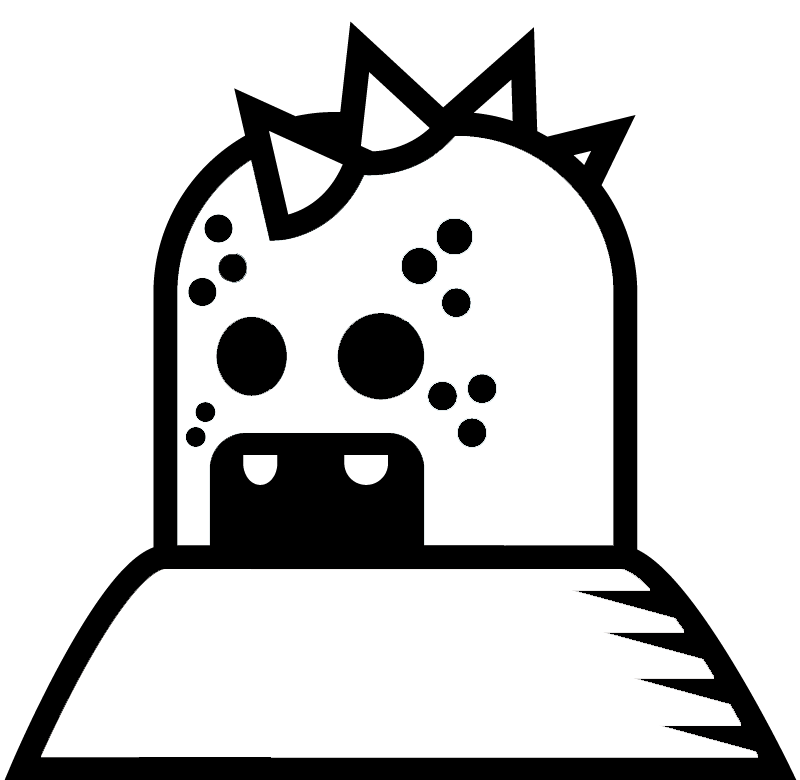
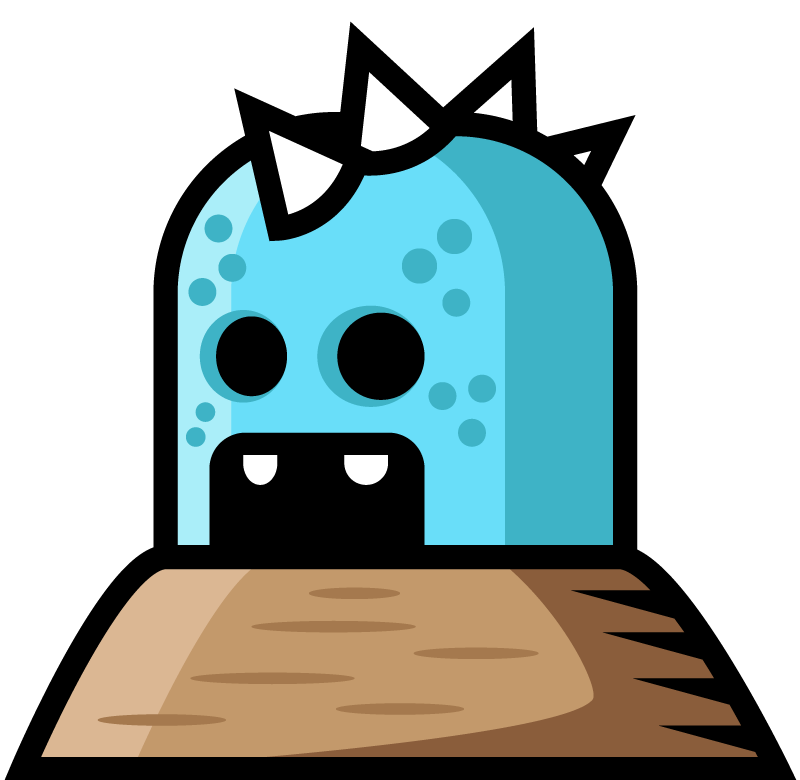
Поменяла спрайты на цветные, добавила reloadButton

diff --git a/Oh, boy!/GameScene.swift b/Oh, boy!/GameScene.swift
@@ -14,6 +14,8 @@ class GameScene: SKScene, SKPhysicsContactDelegate {
     // Variables
     var sound = true
     var death = false
+    var moveSkullY = SKAction()
+    var gameViewControllerBridge: GameViewController!
     
     // Texture
     var bgSkyTexture: SKTexture!
@@ -27,6 +29,7 @@ class GameScene: SKScene, SKPhysicsContactDelegate {
     var bigCoinAnimateTexture: SKTexture!
     var wormTexture: SKTexture!
     var deadHeroTexture: SKTexture!
+    var skullTexture: SKTexture!
     
     
     // Sprite Nodes
@@ -39,6 +42,7 @@ class GameScene: SKScene, SKPhysicsContactDelegate {
     var coin = SKSpriteNode()
     var bigCoin = SKSpriteNode()
     var worm = SKSpriteNode()
+    var skull = SKSpriteNode()
     
     // Sprites Objects
     var skyBgObject = SKNode()
@@ -69,11 +73,13 @@ class GameScene: SKScene, SKPhysicsContactDelegate {
     var timerAddCoin = Timer()
     var timerAddBigCoin = Timer()
     var timerAddWorm = Timer()
+    var timerAddSkull = Timer()
     
     // Sounds
     var pickCoinPreload = SKAction()
     var wormPreload = SKAction()
     var deadPreload = SKAction()
+    var skullPreload = SKAction()
     
     override func didMove(to view: SKView) {
         // Background texture
@@ -96,13 +102,17 @@ class GameScene: SKScene, SKPhysicsContactDelegate {
                              SKTexture(imageNamed: "Coin3.png")]
         
         // Worm texture
-        wormTexture = SKTexture(imageNamed: "worm_1")
+        wormTexture = SKTexture(imageNamed: "worm_1.png")
+        skullTexture = SKTexture(imageNamed: "skull.png")
         
         self.physicsWorld.contactDelegate = self
         
         createObjects()
         
         pickCoinPreload = SKAction.playSoundFileNamed("pickCoin.mp3", waitForCompletion: false)
+        wormPreload = SKAction.playSoundFileNamed("worm.mp3", waitForCompletion: false)
+        deadPreload = SKAction.playSoundFileNamed("", waitForCompletion: false)
+        skullPreload = SKAction.playSoundFileNamed("", waitForCompletion: false)
         
         createGame()
     }
@@ -130,7 +140,10 @@ class GameScene: SKScene, SKPhysicsContactDelegate {
             self.createHero()
             self.addTimer()
             self.addWorm()
+            self.addSkull()
         }
+        
+        gameViewControllerBridge.reloadButton.isHidden = true
     }
     
     func createBg() {
@@ -280,9 +293,9 @@ class GameScene: SKScene, SKPhysicsContactDelegate {
     }
     
     @objc func addWorm() {
-//       if sound {
-//            run(spiderCreatePreload)
-//        }
+       if sound {
+            run(wormPreload)
+        }
                     
         worm = SKSpriteNode(texture: wormTexture)
         wormTexturesArray = [
@@ -330,18 +343,96 @@ class GameScene: SKScene, SKPhysicsContactDelegate {
         movingObject.addChild(worm)
     }
     
+    @objc func addSkull() {
+        if sound {
+            run(skullPreload)
+        }
+                         
+        skull = SKSpriteNode(texture: skullTexture)
+               
+        let movementRandom = arc4random() % 9
+        let movementAmount = arc4random() % UInt32(self.frame.size.height / 2)
+        let pipeOffset = CGFloat(movementAmount) - self.frame.size.height / 4
+        if movementRandom == 0 {
+            moveSkullY = SKAction.moveTo(y: self.frame.height / 2 + 180, duration: 8)
+        } else if movementRandom == 1 {
+            moveSkullY = SKAction.moveTo(y: self.frame.height / 2 - 180, duration: 5)
+        } else if movementRandom == 2 {
+            moveSkullY = SKAction.moveTo(y: self.frame.height / 2 - 200, duration: 8)
+        } else if movementRandom == 3 {
+            moveSkullY = SKAction.moveTo(y: self.frame.height / 2 + 200, duration: 5)
+        } else if movementRandom == 4 {
+            moveSkullY = SKAction.moveTo(y: self.frame.height / 2 + 40, duration: 4)
+        } else if movementRandom == 5 {
+            moveSkullY = SKAction.moveTo(y: self.frame.height / 2 - 35, duration: 5)
+        } else {
+            moveSkullY = SKAction.moveTo(y: self.frame.height / 2, duration: 4)
+        }
+                     
+        skull.run(moveSkullY)
+                
+        skull.size.width = 100
+        skull.size.height = 70
+        skull.speed  = 2.3
+                         
+        skull.position = CGPoint(x: self.frame.size.width + 150, y: self.frame.size.height / 4 - self.frame.size.height / 24 + pipeOffset)
+                         
+        let moveSkullX = SKAction.moveTo(x: -self.frame.size.width / 2, duration: 8)
+        skull.physicsBody = SKPhysicsBody(rectangleOf: CGSize(width: skull.size.width - 43, height: skull.size.height - 27))
+        skull.physicsBody?.categoryBitMask = objectGroup
+        skull.physicsBody?.isDynamic = false
+                         
+        let removeAction = SKAction.removeFromParent()
+        let skullMoveBgForever = SKAction.repeatForever(SKAction.sequence([moveSkullX, removeAction]))
+                         
+        skull.run(skullMoveBgForever)
+        skull.zPosition = 1
+        movingObject.addChild(skull)
+    }
+    
     func deathAction() {
         mountainBgObject.isPaused = true
         groundBgObject.isPaused = true
         hero.texture = SKTexture(imageNamed: "fail3.png")
         hero.speed = 0
-        hero.isPaused = true
+        worm.removeAllChildren()
         hero.removeAllChildren()
+    }
+    
+    func reloadGame() {
+        death = false
+        coinObject.removeAllChildren()
+        bigCoinObject.removeAllChildren()
+        
+        scene?.isPaused = false
+           
+        movingObject.removeAllChildren()
+        heroObject.removeAllChildren()
+           
+        coinObject.speed = 1
+        heroObject.speed = 1
+        movingObject.speed = 1
+        groundBgObject.isPaused = false
+        mountainBgObject.isPaused = false
+        self.scene?.speed = 1
+           
+        createGround()
+        createSky()
+        createHero()
+           
+        timerAddCoin.invalidate()
+        timerAddBigCoin.invalidate()
+        timerAddSkull.invalidate()
+        timerAddWorm.invalidate()
+       
+        addTimer()
     }
     
     func addTimer() {
         timerAddCoin.invalidate()
         timerAddBigCoin.invalidate()
+        timerAddWorm.invalidate()
+        timerAddSkull.invalidate()
            
         timerAddCoin = Timer.scheduledTimer(timeInterval: 2.83,
                                             target: self,
@@ -358,5 +449,6 @@ class GameScene: SKScene, SKPhysicsContactDelegate {
                                             selector: #selector(GameScene.addWorm),
                                             userInfo: nil,
                                             repeats: true)
+        timerAddSkull = Timer.scheduledTimer(timeInterval: 6, target: self, selector: #selector(GameScene.addSkull), userInfo: nil, repeats: true)
     }
 }

diff --git a/Oh, boy!/Extensions/GameScene_physics.swift b/Oh, boy!/Extensions/GameScene_physics.swift
@@ -10,81 +10,84 @@ import Foundation
 import SpriteKit
 
 extension GameScene {
-    @objc(didBeginContact:)
-    
-    func didBegin(_ contact: SKPhysicsContact) {
-        
+  func didBegin(_ contact: SKPhysicsContact) {
+         
+         let objectNode = contact.bodyA.categoryBitMask == objectGroup ? contact.bodyA.node : contact.bodyB.node
+         
          if contact.bodyA.categoryBitMask == objectGroup || contact.bodyB.categoryBitMask == objectGroup {
             death = true
             hero.physicsBody?.velocity = CGVector(dx: 0, dy: 0)
-                                    
-//            if sound {
-//                run(batDeadPreload)
-//            }
-                                    
+            
+                             
+            if sound {
+            run(deadPreload)
+            }
+                             
             hero.physicsBody?.allowsRotation = false
-                                    
-            timerAddBigCoin.invalidate()
+                             
             timerAddCoin.invalidate()
+            timerAddBigCoin.invalidate()
             timerAddWorm.invalidate()
-           
-            heroDeathTexturesArray = [SKTexture(imageNamed: "fail.png"),
-                                      SKTexture(imageNamed: "fail2.png"),
-                                      SKTexture(imageNamed: "fail3.png")]
+            timerAddSkull.invalidate()
+                             
+            heroDeathTexturesArray = [
+                             SKTexture(imageNamed: "fail.png"),
+                             SKTexture(imageNamed: "fail2.png"),
+                             SKTexture(imageNamed: "fail3.png")
+                 ]
             hero.size.height = 85
             hero.size.width = 130
             hero.position = CGPoint(x: self.size.width - 100, y: 0)
             let heroDeathAnimation = SKAction.animate(with: heroDeathTexturesArray,
-                                                      timePerFrame: 0.1)
+                                                     timePerFrame: 0.1)
             hero.run(heroDeathAnimation)
-                        
+                 
             if death {
                 deathAction()
-            
+                                           
+                DispatchQueue.main.asyncAfter(deadline: .now() + 0.5) {
+                    self.gameViewControllerBridge.reloadButton.isHidden = false
+                }
             }
-//            else {
-//                death = false
-//                objectNode?.removeFromParent()
-//            }
-        }
-        
-        
-        if contact.bodyA.categoryBitMask == groundGroup || contact.bodyB.categoryBitMask == groundGroup {
-            
-            if death {
-                deathAction()
-            } else {
-                heroRunTexturesArray =  [SKTexture(imageNamed: "run_1.png"),
-                                         SKTexture(imageNamed: "run_2.png"),
-                                         SKTexture(imageNamed: "run_3.png"),
-                                         SKTexture(imageNamed: "run_4.png"),
-                                         SKTexture(imageNamed: "run_5.png"),
-                                         SKTexture(imageNamed: "run_6.png")]
-                let heroRunAnimation = SKAction.animate(with: heroRunTexturesArray,
-                                                        timePerFrame: 0.08)
-                let heroRun = SKAction.repeatForever(heroRunAnimation)
-                hero.run(heroRun)
-            }
-        }
-        
-        if contact.bodyA.categoryBitMask == coinGroup || contact.bodyB.categoryBitMask == coinGroup {
-            let coinNode = contact.bodyA.categoryBitMask == coinGroup ? contact.bodyA.node : contact.bodyB.node
-
-            if sound == true {
-                run(pickCoinPreload)
-            }
-                   
-            coinNode?.removeFromParent()
-        }
-               
-        if contact.bodyA.categoryBitMask == bigCoinGroup || contact.bodyB.categoryBitMask == bigCoinGroup {
-            let bigCoinNode = contact.bodyA.categoryBitMask == bigCoinGroup ? contact.bodyA.node : contact.bodyB.node
-                   
-            if sound == true {
-                run(pickCoinPreload)
-            }
-                   
-            bigCoinNode?.removeFromParent()
-        }
-    }
+         }
+         
+         if contact.bodyA.categoryBitMask == groundGroup || contact.bodyB.categoryBitMask == groundGroup {
+                 if death {
+                     deathAction()
+                 } else {
+                     heroRunTexturesArray = [
+                     SKTexture(imageNamed: "run_1.png"),
+                     SKTexture(imageNamed: "run_2.png"),
+                     SKTexture(imageNamed: "run_3.png"),
+                     SKTexture(imageNamed: "run_4.png"),
+                     SKTexture(imageNamed: "run_5.png"),
+                     SKTexture(imageNamed: "run_6.png"),
+                                ]
+                     let heroRunAnimation = SKAction.animate(with: heroRunTexturesArray, timePerFrame: 0.08)
+                     let heroRun = SKAction.repeatForever(heroRunAnimation)
+                                
+                     hero.run(heroRun)
+                 }
+         }
+         
+         if contact.bodyA.categoryBitMask == coinGroup || contact.bodyB.categoryBitMask == coinGroup {
+             let coinNode = contact.bodyA.categoryBitMask == coinGroup ? contact.bodyA.node : contact.bodyB.node
+             
+             if sound == true {
+                 run(pickCoinPreload)
+             }
+             
+             coinNode?.removeFromParent()
+         }
+         
+         if contact.bodyA.categoryBitMask == bigCoinGroup || contact.bodyB.categoryBitMask == bigCoinGroup {
+             let bigCoinNode = contact.bodyA.categoryBitMask == bigCoinGroup ? contact.bodyA.node : contact.bodyB.node
+             
+             if sound == true {
+                 run(pickCoinPreload)
+             }
+             
+             bigCoinNode?.removeFromParent()
+         }
+     }
 }

diff --git a/Oh, boy!/ViewControllers/GameViewController.swift b/Oh, boy!/ViewControllers/GameViewController.swift
@@ -11,27 +11,28 @@ import SpriteKit
 import GameplayKit
 
 class GameViewController: UIViewController {
+    
+    var scene = GameScene(size: CGSize(width: 1024, height: 768))
 
+    @IBOutlet weak var reloadButton: UIButton!
     override func viewDidLoad() {
         super.viewDidLoad()
         
-        if let view = self.view as! SKView? {
-            // Load the SKScene from 'GameScene.sks'
-            let scene = GameScene(size: CGSize(width: 1024, height: 768))
-                // Set the scale mode to scale to fit the window
-            scene.scaleMode = .aspectFill
-                
-                // Present the scene
-            view.presentScene(scene)
+        let view = self.view as! SKView
+        view.ignoresSiblingOrder = true
             
-            
-            view.ignoresSiblingOrder = true
-            
-            view.showsFPS = true
-            view.showsNodeCount = true
-            view.showsPhysics = true
-        }
+        scene.scaleMode = .aspectFill
+        scene.gameViewControllerBridge = self
+
+        view.presentScene(scene)
     }
+    
+    @IBAction func reloadGameButtonPressed(_ sender: UIButton) {
+        scene.reloadGame()
+        scene.gameViewControllerBridge = self
+        reloadButton.isHidden = true
+    }
+    
 
     override var shouldAutorotate: Bool {
         return true
